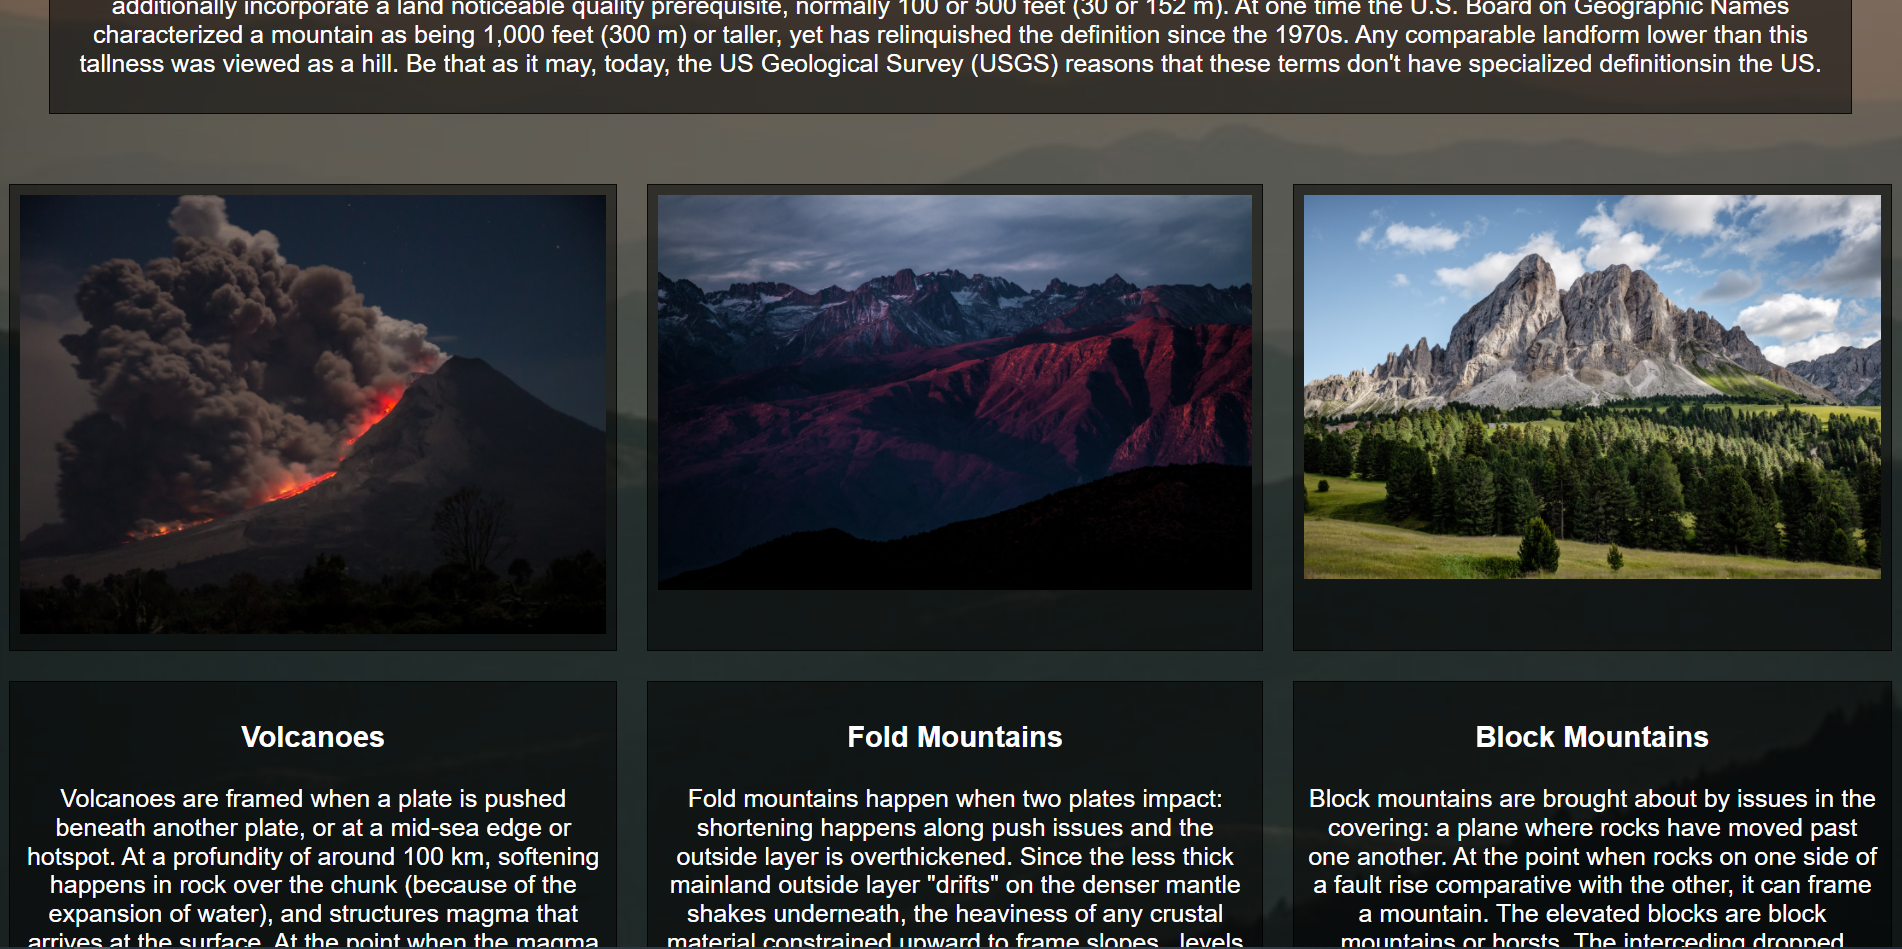
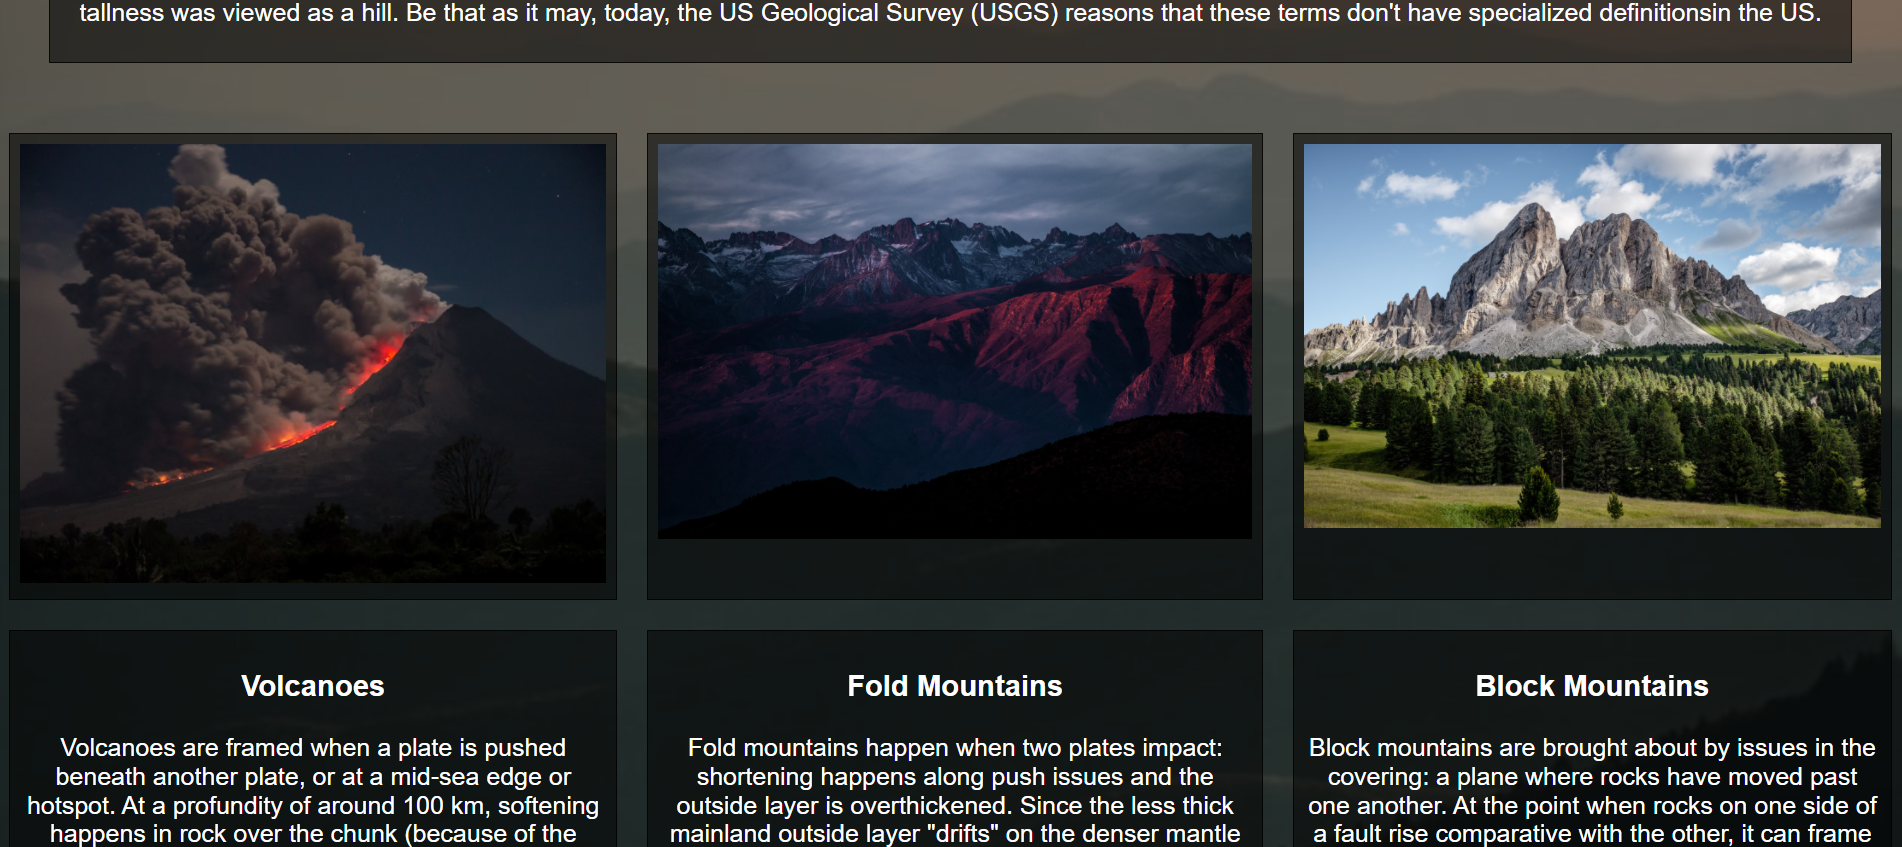
--- Auto-Git Commit ---

diff --git a/css/workstyle.css b/css/workstyle.css
@@ -6,6 +6,23 @@ html, body{
     justify-content: center;
 }
 
+body{
+    background-image: "";
+    transition: background-image 1s linear;
+    background-position: center;
+    background-size: cover;
+}
+
+a{
+    text-decoration: none;
+}
+
+button{
+    border-radius: 50%;
+    width: 200px;
+    height: 200px;
+}
+
 .grid-container{
     padding: 10%;
     display: grid;
@@ -22,10 +39,11 @@ html, body{
 }
 
 .desc{
-    padding-top: 100px;
+    margin-top: 100px;
     /* padding: 30px; */
     position: fixed;
     width: 500px;
+    background-color: rgb(0, 0, 0, .2);
 }
 
 .pixelated{
@@ -36,13 +54,9 @@ html, body{
     opacity: 0;
 }
 
-.buttons{
+.button-container{
     display: grid;
     grid-template-columns: auto auto;
     text-align: right;
     padding: 60px;
-}
-
-.butt{
-    border-radius: 50%;
 }

diff --git a/projects.html b/projects.html
@@ -30,8 +30,6 @@
 
     <br>
 
-    <img class="background" src="" alt="">
-
     <div class="grid-container">
         <h1>Projects</h1>
         <div class="description">
@@ -47,9 +45,9 @@
                 website using grids and @media queries for different screen sizes.
             </div>
         </div>
-        <div class="buttons">
-            <a href=""><img src="images/pixelatedbutton.png" class="pbutton butt" alt=""></a>
-            <a href=""><img src="images/mountainbutton.png" class="mbutton butt" alt=""></a>
+        <div class="button-container">
+            <button class="pbutton"></button>
+            <button class="mbutton"></button>
         </div>
     </div>
 

diff --git a/js/project.js b/js/project.js
@@ -1,9 +1,14 @@
-const background = document.querySelector(".background");
-
 const pDesc = document.querySelector(".pixelated");
 const mDesc = document.querySelector(".mountains");
-
 const pButton = document.querySelector(".pbutton");
 const mButton = document.querySelector(".mbutton");
 
-pButton.addEventListener("")
+pButton.addEventListener("click", () => {
+    pDesc.style.opacity = "1"
+    document.body.style.backgroundImage = "url('images/pixelated.png')";
+});
+
+mButton.addEventListener("click", () => {
+    mDesc.style.opacity = "1"
+    document.body.style.backgroundImage = "url('images/relativeexpression.png')";
+});

diff --git a/js/index.js b/js/index.js
@@ -5,7 +5,7 @@ const contact = document.querySelector("#contact");
 const projects = document.querySelector("#projects");
 
 
-backgroundImage.style.backgroundImage = "url('images/default.jpg')";
+backgroundImage.style.backgroundImage = "url('images/white2.png')";
 
 resume.addEventListener("mouseenter", () => {
     backgroundImage.style.backgroundImage = "url('images/resume.jpg')";
